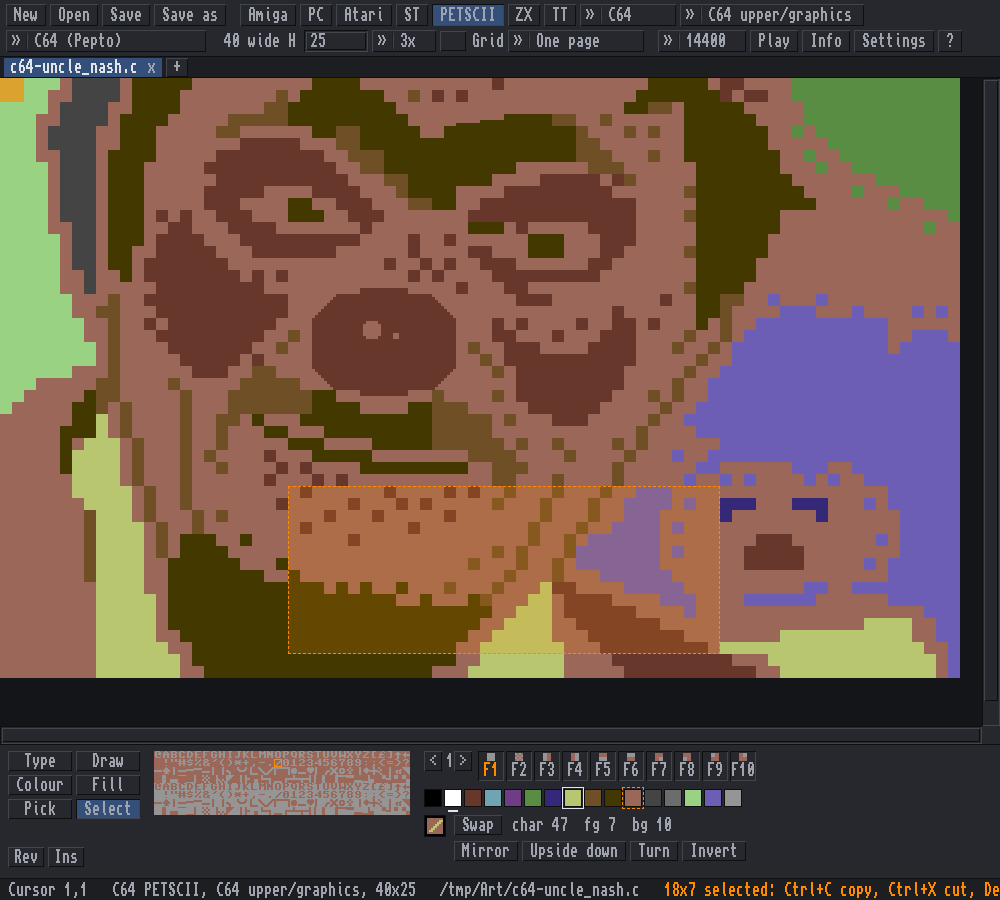
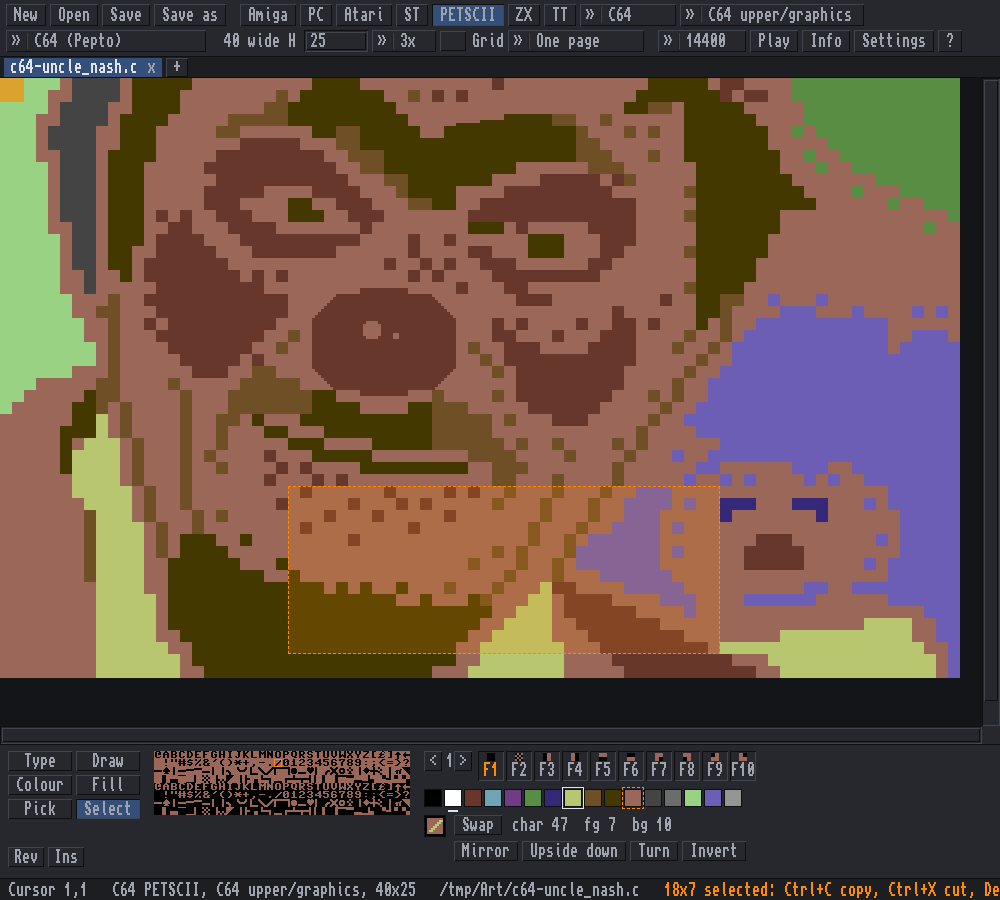
The character picker on a PETSCII page takes black or white by the screen colour's real brightness (light red was grey on pink); 0.1b2

Changed region(s): [[0.155, 0.84, 0.434, 0.9333]]

diff --git a/editor.go b/editor.go
@@ -349,10 +349,13 @@ func (a *App) previewFg() int {
 	if !a.c64() {
 		return 7
 	}
-	if a.doc.bg == 15 || a.doc.bg == 1 || a.doc.bg == 7 || a.doc.bg == 13 {
+	// Black or white, whichever shows better on the screen colour (by its brightness).
+	c := a.pal[a.doc.bg&15]
+	r, g, b := float64(c>>16&255), float64(c>>8&255), float64(c&255)
+	if 0.299*r+0.587*g+0.114*b > 110 {
 		return 0
 	}
-	return 15
+	return 1
 }
 
 func (a *App) setPalette() {

diff --git a/main.go b/main.go
@@ -52,7 +52,7 @@ func dropFinderArgs() {
 }
 
 // version is Charcoal's version: X.YbN is a beta, X.Y a release. Tag releases as vX.YbN.
-const version = "0.1b1"
+const version = "0.1b2"
 
 func main() {
 	runtime.LockOSThread()
